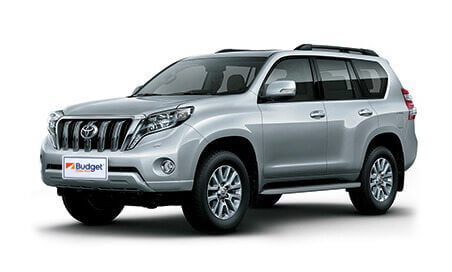
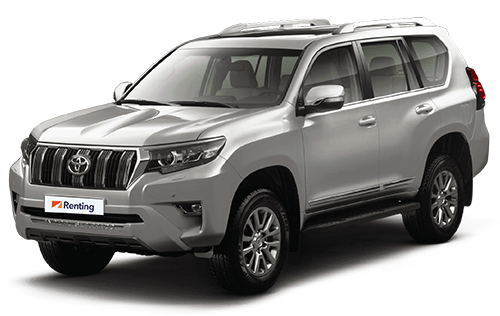
Cambios en las imagenes y actualización de funcionesjs

diff --git a/js/calculadora.js b/js/calculadora.js
@@ -11,14 +11,20 @@ var speed = {
 var numdiv=0;
 
 $(document).ready(function(){
-  $('select[name="transmision"] option[value="1"]').remove();//Remueve automatica
-  $("#modelo").change(function(event){
+
+  /* Carga los JSON de la matriz Google*/
     var m36=JSON.parse($("#36m").val());
     var m24=JSON.parse($("#24m").val());
     var m12=JSON.parse($("#12m").val());
     var m24_s=JSON.parse($("#24m_s").val());
     var m12_s=JSON.parse($("#12m_s").val());
-    console.log(m36);
+    //console.log(m36);
+  /* Fin carga JSON*/
+
+  //$('select[name="transmision"] option[value="1"]').remove();//Remueve automatica
+
+  /* Cambiar el modelo de auto */
+  $("#modelo").change(function(event){
     var precio="";
     switch (this.value) {
       case '1':
@@ -26,13 +32,17 @@ $(document).ready(function(){
         $("#divimg").attr("src","img/hiluxsencilla.png");
         link="toyota-hilux-single";
         $('select[name="transmision"] option[value="1"]').remove();//Remueve automatica
-        var prec=m36[3].p16;
+      /*  var prec=m36[3].p16;
         var prec1=prec.replace(",", "");
         precio=prec1.replace("$ ", "");
-        precio=precio.toString();
+        precio=precio.toString();*/
+        //precios(tvehiculo, modelo, transmision, meses)
+        //console.log("Entra al case1");
+        precio=precios(0, 1, 0, 0, m36, m24, m12, m24_s, m12_s);
+
         break;
       case '2':
-        $("#divimg").attr("src","img/prado.png");
+        $("#divimg").attr("src","img/Prado.png");
         link="toyota-prado";
         $('select[name="transmision"] option[value="0"]').remove();
         //si el precio es p1 si no se va variando
@@ -42,7 +52,7 @@ $(document).ready(function(){
         precio=precio.toString();
         break;
       case '3':
-        $("#divimg").attr("src","img/fortuner.png");
+        $("#divimg").attr("src","img/Fortuner.png");
         $('select[name="transmision"] option[value="0"]').remove();
         link="toyota-fortuner";
         var prec=m36[1].p16;
@@ -51,7 +61,7 @@ $(document).ready(function(){
         precio=precio.toString();
         break;
       case '4':
-        $("#divimg").attr("src","img/rav4-1.png");
+        $("#divimg").attr("src","img/Rav4.png");
         link="toyota-rav4";
         var prec=m36[4].p16;
         var prec1=prec.replace(",", "");
@@ -59,7 +69,7 @@ $(document).ready(function(){
         precio=precio.toString();
         break;
       case '5':
-        $("#divimg").attr("src","img/rush1.png");
+        $("#divimg").attr("src","img/Rush.png");
         link="toyota-hilux-single";
         var prec=m36[6].p16;
         var prec1=prec.replace(",", "");
@@ -67,7 +77,7 @@ $(document).ready(function(){
         precio=precio.toString();
         break;
       case '6':
-        $("#divimg").attr("src","img/corolla.png");
+        $("#divimg").attr("src","img/Corolla.png");
         $('select[name="transmision"] option[value="0"]').remove(); //Remueve manual
         link="toyota-corolla";
         var prec=m36[7].p16;
@@ -76,7 +86,7 @@ $(document).ready(function(){
         precio=precio.toString();
         break;
       case '7':
-        $("#divimg").attr("src","img/yaris.png");
+        $("#divimg").attr("src","img/Yaris.png");
         link="toyota-yaris";
         var prec=m36[8].p16;
         var prec1=prec.replace(",", "");
@@ -84,7 +94,7 @@ $(document).ready(function(){
         precio=precio.toString();
         break;
       case '8':
-        $("#divimg").attr("src","img/figo.png");
+        $("#divimg").attr("src","img/Figo.png");
         link="ford-figo";
         var prec=m36[0].p16;
         var prec1=prec.replace(",", "");
@@ -107,6 +117,8 @@ $(document).ready(function(){
     $("#clas-per").attr("class",thepercent(precio));
     $("#precio").html(precio);
   });
+  /* Fin cambiar modelo del auto*/
+
 
   $(speed.trigger).on('click', function () {
     setTimeout(function () {
@@ -116,18 +128,33 @@ $(document).ready(function(){
     }, 1000);
   });
 
-  $('.btn-addBody').click(function( event ) {
+
+  /*  Cambiar mensualidades*/
+  $('#pcontrato').change(function( event ) {
+    var modelo=$("#modelo").val();
+    var tvehiculo=$("#tvehiculo").val();
+    var transmision=$("#transmision").val();
+    var pcontrato=$("#pcontrato").val();
+    //tvehiculo, modelo, transmision, meses,
+    precio=precios(tvehiculo, modelo, transmision, pcontrato, m36, m24, m12, m24_s, m12_s);
+    $("#clas-per").attr("class",thepercent(precio));
+    $("#precio").html(precio);
+  });
+  /* Fin para agregar nuevo auto */
+
+  /*  Agregar un nuevo auto para comparar*/
+  $('#comparar').click(function( event ) {
       numdiv++;
       if(numdiv<3){
-        $('.main').append('<div class="divBody">Nuevo div</div>');
+        $('.main').append('<div class="cearboth"></div><div class="divBody">Nuevo div</div>');
       }else{
         alert("Comparar hasta 3");
       }
-
   });
+  /* Fin para agregar nuevo auto */
 
 
-
+  /* Muestra los nuevos y oculta los seminuevos viceversa*/
   $('#tvehiculo').change(function(event) {
     //option[value=title]
     if(this.value=="Seminuevo"){
@@ -157,13 +184,17 @@ $(document).ready(function(){
     }
   });
 
-  $("#breiniciar").click(function( event ) {
+  /* Fin Muestra los nuevos y oculta los seminuevos viceversa*/
+
+
+   $("#breiniciar").click(function( event ) {
       alert("Reiniciar");
       location.reload();
-  });
+    });
 
-});
+}); //Fin Document ready
 
+/* Tranforma el precio a porecentaje tacómetro*/
 function thepercent(precio){
   var min=450;
   var max=2022;
@@ -202,22 +233,37 @@ function thepercent(precio){
 
   return clas;
 }
+/* Fin Tranforma el precio a porecentaje*/
 
-function precios(tvehiculo, modelo, transmision, meses){
-
+function precios(tvehiculo, modelo, transmision, meses, m36, m24, m12, m24_s, m12_s){
+console.log("Entra precios tvehiculo "+tvehiculo+" modelo "+modelo+" transmision "+transmision+" meses "+meses  );
   if(tvehiculo==0) { // Nuevo
     switch(modelo){
-      case '1':
+      case 1:
+      //console.log("Entra al case1 precios");
           //Solo Transmisión manual
           if(meses==0){ //36meses
-
+              var prec=m36[3].p16;
+              var prec1=prec.replace(",", "");
+              precio=prec1.replace("$ ", "");
+              precio=precio.toString();
+              //console.log(precio);
+              return precio;
           }else if(meses==1){ //24meses
-
+              var prec=m24[3].p16;
+              var prec1=prec.replace(",", "");
+              precio=prec1.replace("$ ", "");
+              precio=precio.toString();
+              return precio;
           }else{ //12meses
-
+              var prec=m24[3].p16;
+              var prec1=prec.replace(",", "");
+              precio=prec1.replace("$ ", "");
+              precio=precio.toString();
+              return precio;
           }
       break;
-      case '2':
+      case 2:
           //Solo Transmisión Automatica
           if(meses==0){ //36meses
 
@@ -227,7 +273,7 @@ function precios(tvehiculo, modelo, transmision, meses){
 
           }
       break;
-      case '3':
+      case 3:
           //Solo Transmisión Automatica
           if(meses==0){ //36meses
 
@@ -237,7 +283,7 @@ function precios(tvehiculo, modelo, transmision, meses){
 
           }
       break;
-      case '4':
+      case 4:
         if(transmision==0){//Man
           if(meses==0){ //36meses
 
@@ -256,7 +302,7 @@ function precios(tvehiculo, modelo, transmision, meses){
           }
         }
       break;
-      case '5':
+      case 5:
         if(transmision==0){//Man
           if(meses==0){ //36meses
 
@@ -275,7 +321,7 @@ function precios(tvehiculo, modelo, transmision, meses){
           }
         }
       break;
-      case '6':
+      case 6:
           //Solo automatica
           if(meses==0){ //36meses
 
@@ -285,7 +331,7 @@ function precios(tvehiculo, modelo, transmision, meses){
 
           }
       break;
-      case '7':
+      case 7:
         if(transmision==0){//Man
           if(meses==0){ //36meses
 
@@ -304,7 +350,7 @@ function precios(tvehiculo, modelo, transmision, meses){
           }
         }
       break;
-      case '8':
+      case 8:
         if(transmision==0){//Man
           if(meses==0){ //36meses
 
@@ -338,7 +384,7 @@ function precios(tvehiculo, modelo, transmision, meses){
   }else if(tvehiculo==0){ //Seminuevo
 
     switch(modelo){
-      case '2':
+      case 2:
         //Automatica
         if(meses==1){ //24meses
 
@@ -346,7 +392,7 @@ function precios(tvehiculo, modelo, transmision, meses){
 
         }
       break;
-      case '4':
+      case 4:
         if(transmision==0){//Man
           if(meses==1){ //24meses
 
@@ -361,7 +407,7 @@ function precios(tvehiculo, modelo, transmision, meses){
           }
         }
       break;
-      case '6':
+      case 6:
         //Automatica
         if(meses==1){ //24meses
 
@@ -369,7 +415,7 @@ function precios(tvehiculo, modelo, transmision, meses){
 
         }
       break;
-      case '7':
+      case 7:
         if(transmision==0){//Man
           if(meses==1){ //24meses
 
@@ -384,7 +430,7 @@ function precios(tvehiculo, modelo, transmision, meses){
           }
         }
       break;
-      case '9':
+      case 9:
         if(transmision==0){//Man
           if(meses==1){ //24meses
 

diff --git a/css/style-calculadora.css b/css/style-calculadora.css
@@ -76,6 +76,7 @@
     min-height: auto;
     /*border: solid 1px red;*/
   }
+  #comparar{text-decoration: none; color: #FFF;}
   #divmodelo{
     float:right;
     width: 40.5%;

diff --git a/index_debug.php b/index_debug.php
@@ -127,7 +127,7 @@
               <div class="space10"></div>
               <a id="lightbox-btn" href="https://www.renting.cr/planes-renting.php?vehicle=toyota-hilux" target="_blank" class="btt orange" style="text-decoration: none; color: #FFF" title="">CONTÁCTENOS</a>
               <div class="space10"></div>
-              <a  href="#" class="btt blue" style="text-decoration: none; color: #FFF;" title="">Comparar</a>
+              <button type="button" id="comparar" class="btt blue">Comparar</button>
               <div class="space10"></div>
               <a id="breiniciar" href="#" style="text-decoration: none; color: #FFF;" class="btt blue">Reiniciar</a>
           </div>
@@ -150,6 +150,7 @@
            <label for="transmision">Transmisión</label>
            <select id="transmision" name="transmision" class="selects">
              <option value="0">Manual</option>
+             <option value="1">Automatica</option>
            </select>
         </div>
         <div class="cearboth"></div>
@@ -231,7 +232,7 @@
         <div class="space10"></div>
         <a id="lightbox-btn" href="https://www.renting.cr/planes-renting.php?vehicle=toyota-hilux" target="_blank" class="btt orange" style="text-decoration: none; color: #FFF" title="">CONTÁCTENOS</a>
         <div class="space10"></div>
-        <a  href="#" class="btt blue" style="text-decoration: none; color: #FFF;" title="">Comparar</a>
+        <button type="button" id="comparar" class="btt blue">Comparar</button>
         <div class="space10"></div>
         <a id="breiniciar" href="#" style="text-decoration: none; color: #FFF;" class="btt blue">Reiniciar</a>
     </div>
